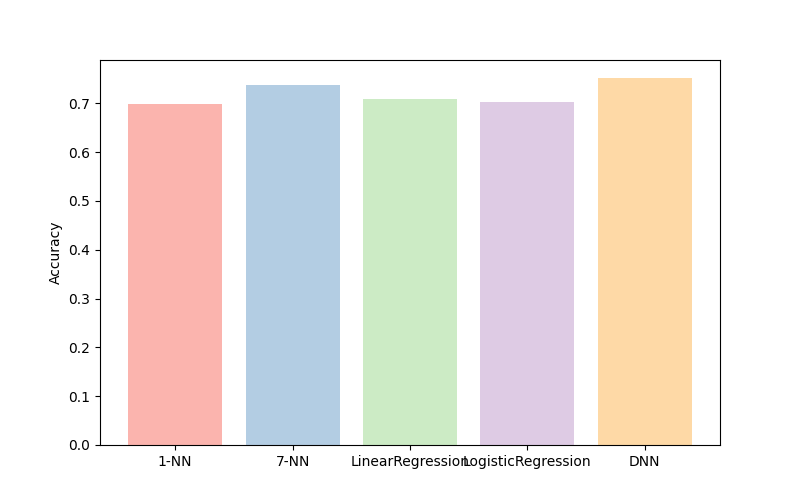
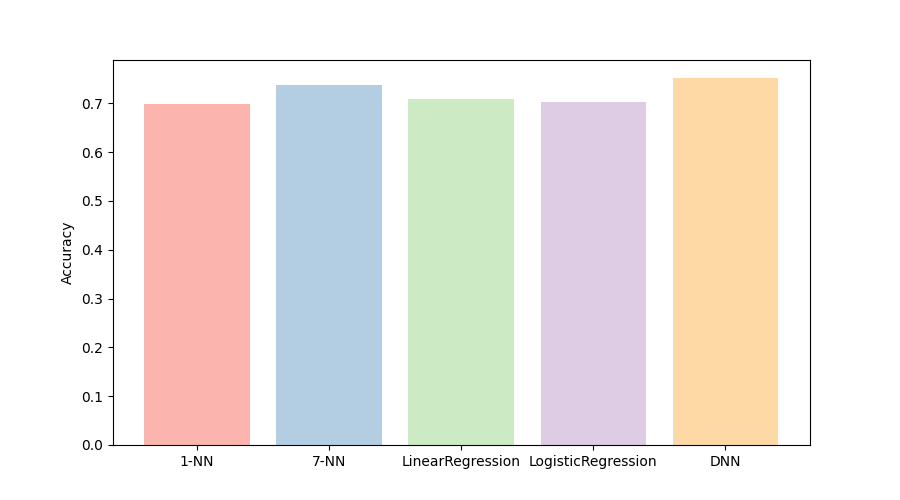
best run

diff --git a/Algorithms/dnn.py b/Algorithms/dnn.py
@@ -60,10 +60,10 @@ class DNN(NetworkABC):
         self.layers = []
         for layer in self.weighted_layers:
             # self.layers.extend((layer, Sigmoid()))
-            self.layers.extend((layer, ReLU()))
+            self.layers.extend((layer, ReLU(), Dropout()))
 
         # 리스트 맨 마지막에 남는 Dropout 제거
-        self.layers = self.layers[:-1]
+        self.layers = self.layers[:-2]
 
         # Softmax 를 최하위 계층으로 사용
         self.layer_last = SoftmaxWithLoss()

diff --git a/Algorithms/__init__.py b/Algorithms/__init__.py
@@ -144,7 +144,7 @@ def draw_accuracy(*net_accuracy_pair: Tuple[NetworkABC, float]):
     axis = plt.gca()
     axis.set_ylim([0, 1])
 
-    plt.figure(figsize=(8, 5))
+    plt.figure(figsize=(9, 5))
     plt.bar(net_names, accuracies, color=colors)
     plt.ylabel("Accuracy")
 
